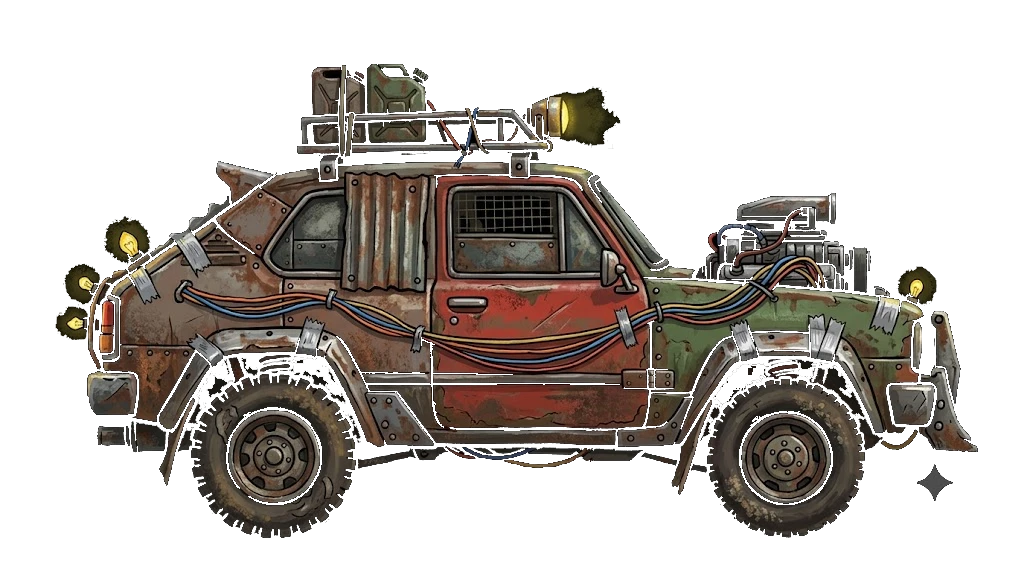
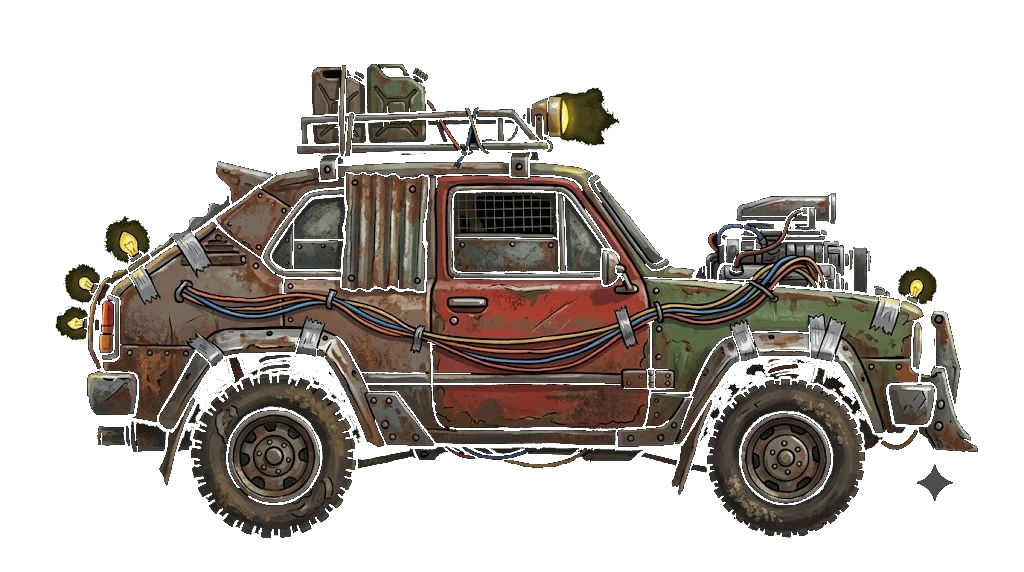
Properly fix car art gap and harden CALIBRATE CORE for mobile
- Redid background removal from the original source in a single
  unified pass instead of two separate scripts run back to back. The
  previous two-pass approach left a ragged, inconsistent alpha
  boundary in the lower rocker-panel area (some pixels fully cleared,
  neighbors left at odd partial alpha) that the cyan drop-shadow
  filter lit up as a mottled haze — not a flat black patch, so it
  wasn't obvious from a plain screenshot. This pass classifies
  background via one connected-components scan (border-touching OR
  large enough enclosed regions get removed) and feathers the edge
  exactly once, so there's no compounding artifact.
- Button was still relying on pointerleave in a fallback role. Removed
  it entirely: pointerleave fires based on the pointer's physical
  position even under active pointer capture (only pointermove/
  pointerup get redirected per spec), so it's fundamentally the wrong
  signal for a button that changes size while held. onLostPointerCapture
  is now the authoritative "release" signal, backed by onPointerUp/
  onPointerCancel.
- Added iOS/WebView-specific hardening: -webkit-touch-callout: none
  and -webkit-tap-highlight-color: transparent stop the OS long-press
  context menu / text-selection callout from hijacking the hold
  gesture, plus a contextmenu preventDefault as a second layer.

diff --git a/src/screens/HomeScreen.tsx b/src/screens/HomeScreen.tsx
@@ -107,8 +107,7 @@ export function HomeScreen() {
       event.currentTarget.setPointerCapture(event.pointerId);
     } catch {
       // Some environments (older WebViews, certain iframe sandboxes) can throw here —
-      // the hold still works via pointerup/pointerleave alone, just without the
-      // "ignore physical leave" guard below.
+      // the hold still ends correctly via pointerup/pointercancel regardless.
     }
     isHoldingRef.current = true;
     setIsHolding(true);
@@ -117,20 +116,6 @@ export function HomeScreen() {
   const endHold = () => {
     isHoldingRef.current = false;
     setIsHolding(false);
-  };
-
-  // With pointer capture active (set on pointerdown above), pointerup/pointermove are
-  // redirected to this element no matter where the finger physically is — but per the
-  // Pointer Events spec, pointerleave is NOT redirected; it still fires based on the
-  // finger's real position. Since the button's own scale animation (below) constantly
-  // resizes it slightly, a held finger can end up just outside the shrunken bounds,
-  // firing a spurious pointerleave and cutting the hold short. Only treat "leave" as a
-  // release when capture isn't actually held, i.e. as a fallback for when
-  // setPointerCapture itself didn't take — pointerup/pointercancel are the real signal.
-  const handlePointerLeave = (event: React.PointerEvent<HTMLButtonElement>) => {
-    if (!event.currentTarget.hasPointerCapture(event.pointerId)) {
-      endHold();
-    }
   };
 
   const gaugeColorClass = isOverheated
@@ -238,15 +223,15 @@ export function HomeScreen() {
               onPointerDown={handlePointerDown}
               onPointerUp={endHold}
               onPointerCancel={endHold}
-              onPointerLeave={handlePointerLeave}
+              onLostPointerCapture={endHold}
+              onContextMenu={(event) => event.preventDefault()}
               animate={isHolding ? { scale: 1.05 } : { scale: [1, 1.04, 1] }}
               transition={
                 isHolding
                   ? { duration: 0.15 }
                   : { duration: 1.6, repeat: Infinity, ease: 'easeInOut' }
               }
-              style={{ touchAction: 'none' }}
-              className="select-none rounded-full border-2 border-neon-cyan bg-neon-cyan/10 px-10 py-5 font-display text-lg font-bold tracking-wide text-neon-cyan shadow-[0_0_20px_rgba(0,240,255,0.5)] active:bg-neon-cyan/20"
+              className="touch-none [-webkit-tap-highlight-color:transparent] [-webkit-touch-callout:none] select-none rounded-full border-2 border-neon-cyan bg-neon-cyan/10 px-10 py-5 font-display text-lg font-bold tracking-wide text-neon-cyan shadow-[0_0_20px_rgba(0,240,255,0.5)] active:bg-neon-cyan/20"
             >
               CALIBRATE CORE
             </motion.button>